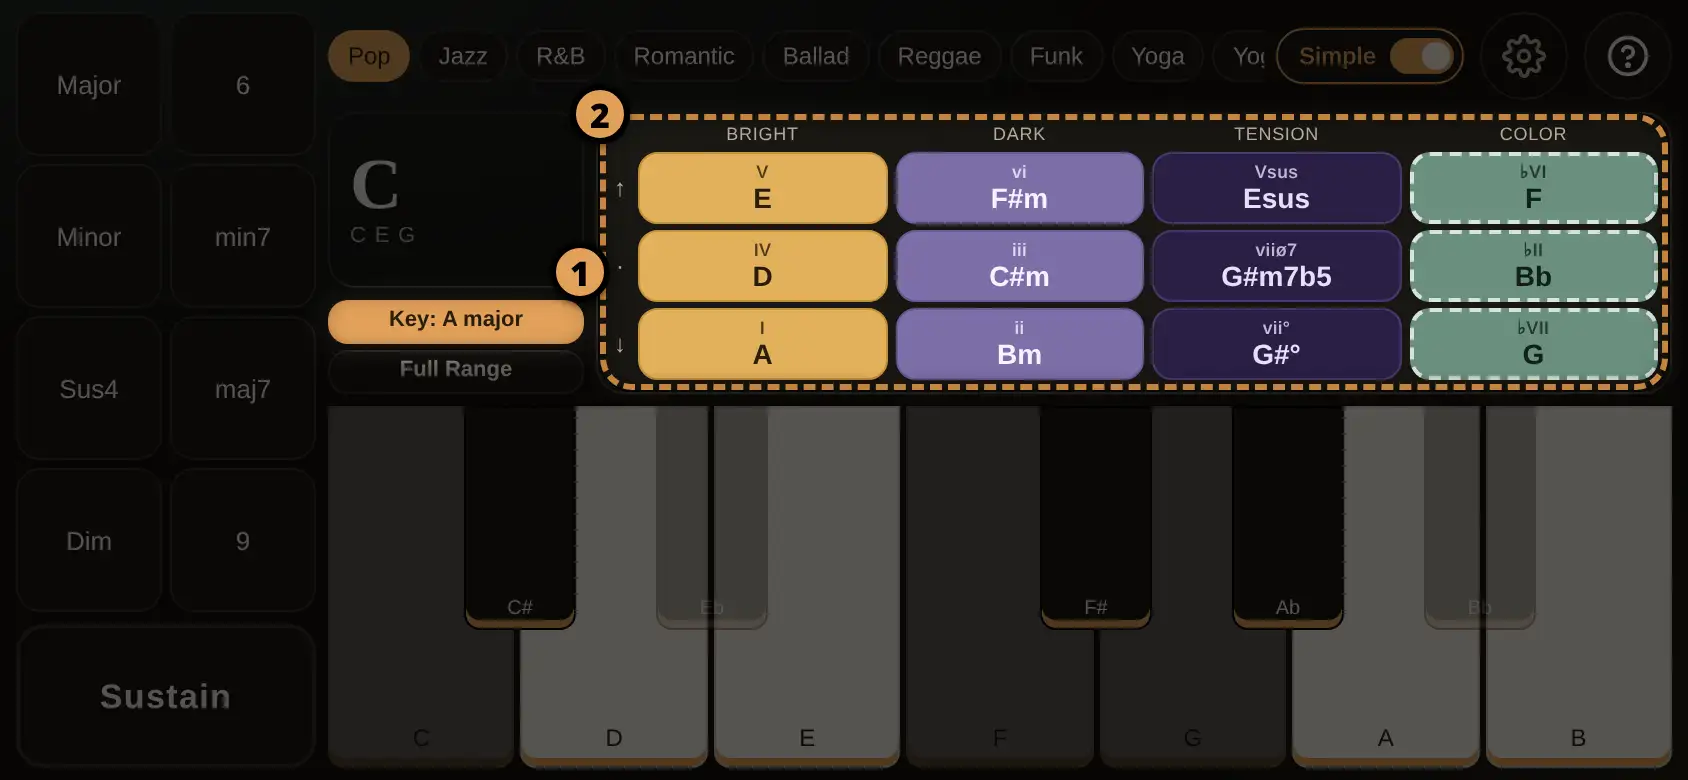
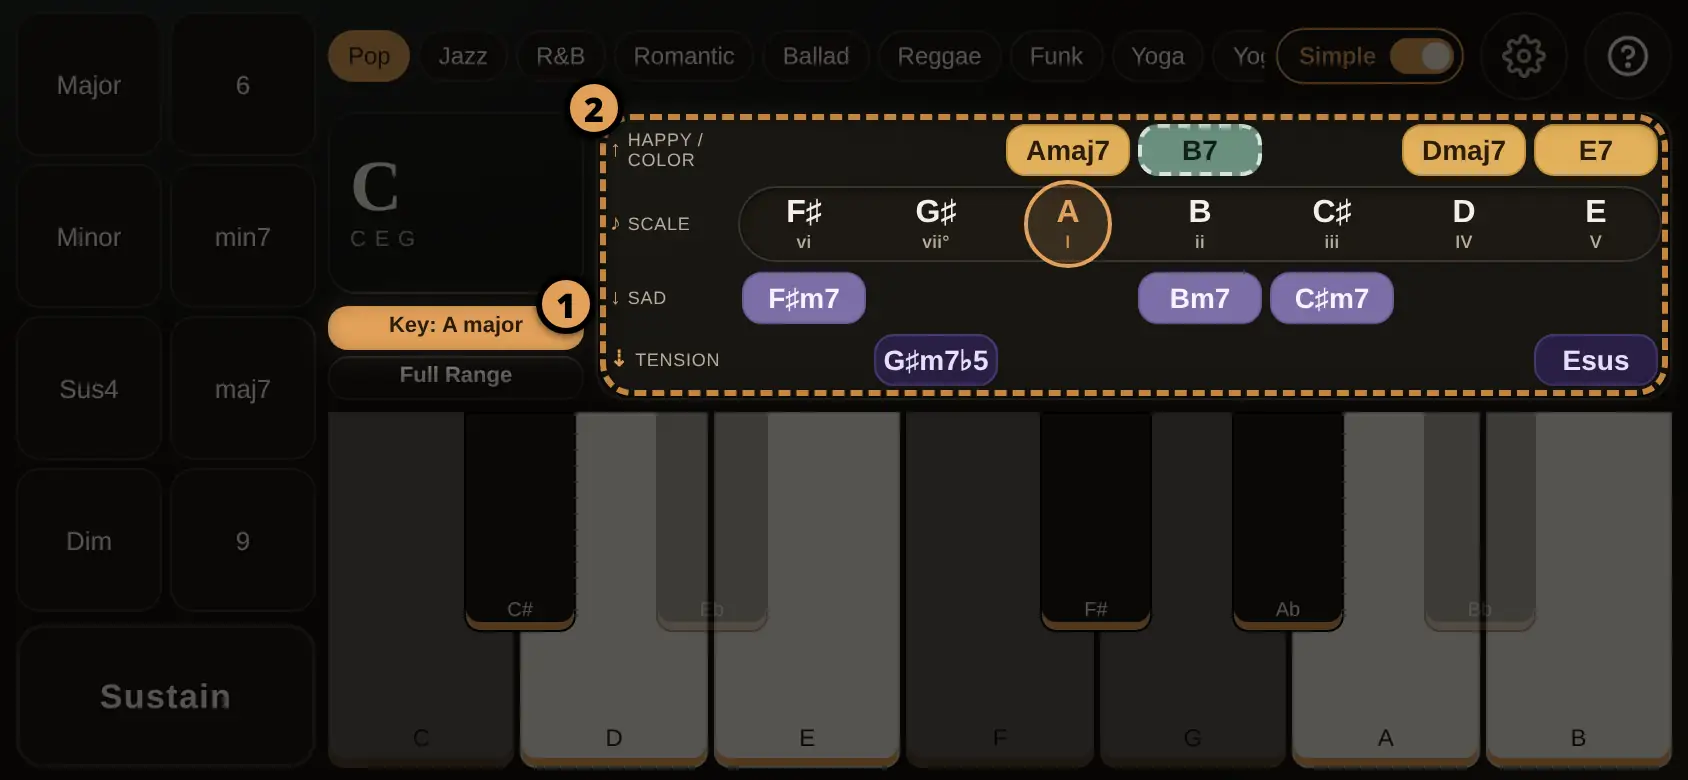
v49: How to step 2 image + 'Tap a chord (2)', step 4 caption; Now 7-chord row fits (stacked root/quality when narrow); ♭/♯ display everywhere; iPad-portrait key bar fit; APP_VERSION 49

diff --git a/index.html b/index.html
@@ -1081,6 +1081,9 @@ html.lay-phone-land .key-row { display: none; }
 .key-bar .allkeys { background: var(--bg-2); color: var(--ink); border: 1px solid var(--line); }
 .key-bar .allkeys.on { background: var(--copper); color: var(--copper-ink); border-color: transparent; }
 html.lay-pad-port .key-bar button, html.lay-pad-land .key-bar button { height: 44px; min-height: 44px; font-size: 16px; padding: 0 10px; }
+/* v49: narrow iPad-portrait Now column: keep "Full Range" and long key names unclipped. */
+html.lay-pad-port .key-bar button { font-size: 14px; padding: 0 6px; }
+html.lay-pad-port .key-bar .allkeys { flex: 0 0 auto; }
 html.lay-phone-port .key-bar { flex-direction: column; gap: 4px; }
 html.lay-phone-port .key-bar button { height: 28px; min-height: 28px; font-size: 12px; }
 html.lay-phone-land .key-bar button { height: 26px; min-height: 26px; font-size: 11px; }
@@ -1088,6 +1091,13 @@ html.lay-phone-land .key-bar button { height: 26px; min-height: 26px; font-size:
 .key-row span { flex: 1 1 0; min-width: 0; text-align: center; overflow: hidden; text-overflow: clip; white-space: nowrap; }
 html.lay-phone-port .key-row span, html.lay-phone-land .key-row span { font-size: 9px; padding: 1px 1px; }
 .key-row span b { display: none; }
+.key-row > span i { font-style: normal; }
+/* Stacked (narrow Now card): root over quality, border drawn inside so it takes no width. */
+#keyRow.stack { gap: 1px; }
+#keyRow.stack > span { display: flex; flex-direction: column; align-items: center; justify-content: center; line-height: 1.05; padding: 2px 0; border-color: transparent; box-shadow: inset 0 0 0 1px var(--line); }
+#keyRow.stack > span.on { box-shadow: none; }
+#keyRow.stack > span .acc { font-size: .8em; }
+#keyRow.stack > span .q { font-size: .85em; min-height: 1em; }
 html.lay-phone-land .key-bar { flex-direction: column; gap: 3px; }
 html.lay-phone-land .key-bar button { height: 22px; min-height: 22px; }
 /* v28: Full Range toggle (was All keys) */
@@ -1125,24 +1135,24 @@ html.lay-pad-port .allkeys, html.lay-pad-land .allkeys { font-size: 14px; paddin
     <div class="ht-box">
       <div class="ht-bar"><button type="button" class="ht-x" aria-label="Close">&#10005;</button></div>
       <section><h3>About Touch Chord</h3>
-      <img src="images/howto-why.webp?v=48" alt="Touch Chord on a phone: chord buttons, keys, Now and suggestions" width="1200" height="555" loading="lazy" decoding="async">
+      <img src="images/howto-why.webp?v=49" alt="Touch Chord on a phone: chord buttons, keys, Now and suggestions" width="1200" height="555" loading="lazy" decoding="async">
       <p class="ht-why">Touch Chord turns one finger into a full chord.<br>It's for anyone who wants to play chords without reading music.<br>A chord is 3 or more notes played at once. Chords that sound good together make up a key.</p>
       <ul><li><b>Learn chords:</b> try a random chord and see its name and notes.</li><li><b>Sing along:</b> play chords under your voice.</li><li><b>Beginner to making music:</b> start with one chord, then follow the suggestions into a song.</li></ul></section>
       <h2 class="ht-howto">How-to</h2>
       <section><h3>1. Make a chord</h3>
-      <img src="images/howto-make-chord.webp?v=48" alt="Hold maj7, tap A, Now reads Amaj7" width="1200" height="555" loading="lazy" decoding="async">
+      <img src="images/howto-make-chord.webp?v=49" alt="Hold maj7, tap A, Now reads Amaj7" width="1200" height="555" loading="lazy" decoding="async">
       <p class="cap">Hold <b>maj7</b> (1), tap <b>A</b> (2) = <b>Amaj7</b>.</p></section>
       <section><h3>2. Chord Suggestion</h3>
-      <img src="images/howto-suggest-b.webp?v=48" alt="Tap a suggestion tile to hear the next chord" width="1200" height="555" loading="lazy" decoding="async">
-      <p class="cap">Tap <b>Key</b> (1), pick A, close. Then tap a tile (2) to hear the next chord.</p></section>
+      <img src="images/howto-suggest-b.webp?v=49" alt="Tap a suggestion tile to hear the next chord" width="1200" height="555" loading="lazy" decoding="async">
+      <p class="cap">Tap a chord (2)</p></section>
       <section><h3>3. Sustain</h3>
-      <img src="images/howto-sustain.webp?v=48" alt="Sustain lit while the chord rings" width="1200" height="555" loading="lazy" decoding="async">
+      <img src="images/howto-sustain.webp?v=49" alt="Sustain lit while the chord rings" width="1200" height="555" loading="lazy" decoding="async">
       <p class="cap">Play (1), hold <b>Sustain</b> (2): notes ring and fade. Let go to stop.</p></section>
       <section><h3>4. Style</h3>
-      <img src="images/howto-style.webp?v=48" alt="Style picker" width="1200" height="555" loading="lazy" decoding="async">
-      <p class="cap">Tap a style (1). It changes the sound and suggestions.</p></section>
+      <img src="images/howto-style.webp?v=49" alt="Style picker" width="1200" height="555" loading="lazy" decoding="async">
+      <p class="cap">Tap a style (1). It changes the sound, not the chords.</p></section>
       <section><h3>5. Full Range</h3>
-      <img src="images/howto-fullrange.webp?v=48" alt="Before: gray keys. After Full Range: all keys on" width="1200" height="300" loading="lazy" decoding="async">
+      <img src="images/howto-fullrange.webp?v=49" alt="Before: gray keys. After Full Range: all keys on" width="1200" height="300" loading="lazy" decoding="async">
       <p class="cap">Gray keys are outside your key. Tap <b>Full Range</b> (1) to play them all.</p></section>
       <p class="ht-end">Sound and FX live in the gear's <b>Advanced</b> settings.</p>
       <dl class="ht-legend"><dt>Simple</dt><dd>Simple on/off</dd><dt>&#9881;</dt><dd>Settings (Advanced: sound, FX)</dd><dt>?</dt><dd>This guide</dd></dl>
@@ -1288,11 +1298,20 @@ html.lay-pad-port .allkeys, html.lay-pad-land .allkeys { font-size: 14px; paddin
 <script>
 "use strict";
 // Bump every build. Shown in Config so a cached copy reports its real version.
-var APP_VERSION = 48;
+var APP_VERSION = 49;
 document.addEventListener("DOMContentLoaded", function () {
   var v = document.getElementById("appVersion");
   if (v) v.textContent = "Version " + APP_VERSION;
 });
+
+// v49: display-only accidentals. "Bb" -> "B♭", "F#" -> "F♯", "m7b5" -> "m7♭5".
+// Internal names stay ASCII; call this only where text is shown.
+function accSym(s) {
+  return String(s == null ? "" : s)
+    .replace(/([A-G])(bb|##|b|#)/g, function (m, l, a) { return l + a.replace(/b/g, "\u266d").replace(/#/g, "\u266f"); })
+    .replace(/(\d|\()b(\d)/g, "$1\u266d$2")
+    .replace(/(\d|\()#(\d)/g, "$1\u266f$2");
+}
 
 
 (function () {
@@ -2706,7 +2725,7 @@ document.addEventListener("DOMContentLoaded", function () {
     b.dataset.midi = String(midi);
     if (state.keyMode && !deg) {
       b.className = "pad out";
-      b.innerHTML = "<span class=\"nm\">" + name + "</span>";
+      b.innerHTML = "<span class=\"nm\">" + accSym(name) + "</span>";
       return b;
     }
     if (state.keyMode) {
@@ -2715,7 +2734,7 @@ document.addEventListener("DOMContentLoaded", function () {
     } else {
       b.className = "pad " + state.type;
     }
-    b.innerHTML = "<span class=\"nm\">" + name + "</span>";
+    b.innerHTML = "<span class=\"nm\">" + accSym(name) + "</span>";
     bindPad(b);
     return b;
   }
@@ -3647,9 +3666,7 @@ document.addEventListener("DOMContentLoaded", function () {
     [6, "m7", "sad", "minor"], [2, "m7", "sad", "minor"], [3, "m7", "sad", "minor"],
     [7, "m7b5", "tension", "tension"], [5, "sus4", "tension", "tension"]
   ];
-  function prettyAcc(name) {
-    return name.charAt(0) + name.slice(1).replace(/b/g, "\u266d").replace(/#/g, "\u266f");
-  }
+  function prettyAcc(name) { return accSym(name); }
   function stripLabel(item) {
     var q = item.qualityLabel || "";
     if (q === "m7b5") q = "m7\u266d5";
@@ -3803,6 +3820,7 @@ document.addEventListener("DOMContentLoaded", function () {
   // Shrink the Now symbol only when a long name (e.g. F#6sus4(add9)) would
   // overflow its card; short ones like Cmaj7 keep the full display size.
   function fitNowSymbol() {
+    fitKeyRow();
     var sym = document.getElementById("symbol");
     var card = sym && sym.parentNode;
     if (!card) return;
@@ -3818,7 +3836,7 @@ document.addEventListener("DOMContentLoaded", function () {
   window.addEventListener("resize", function () { fitNowSymbol(); });
 
   function keyLabel(k) {
-    return Theory.noteName(Theory.spellRoot(k.pc)) + (k.mode === "minor" ? " minor" : " major");
+    return accSym(Theory.noteName(Theory.spellRoot(k.pc))) + (k.mode === "minor" ? " minor" : " major");
   }
   function paintKeyChip(spec) {
     var chip = document.getElementById("keyChip");
@@ -3880,11 +3898,38 @@ document.addEventListener("DOMContentLoaded", function () {
       var b = document.createElement("b");
       b.textContent = d.roman + (d.type === "dim" ? "\u00b0" : "");
       s.appendChild(b);
-      s.appendChild(document.createTextNode(d.name + (d.type === "minor" ? "m" : d.type === "dim" ? "\u00b0" : "")));
+      var r = document.createElement("i"); r.className = "r";
+      var nm = accSym(d.name);
+      r.textContent = nm.charAt(0);
+      if (nm.length > 1) { var ac = document.createElement("i"); ac.className = "acc"; ac.textContent = nm.slice(1); r.appendChild(ac); }
+      var q = document.createElement("i"); q.className = "q"; q.textContent = d.type === "minor" ? "m" : d.type === "dim" ? "\u00b0" : "";
+      s.appendChild(r); s.appendChild(q);
       if (spec && d.pc === spec.rootPc && (d.type === spec.type || (spec.type === "sus4"))) s.className = "on";
       row.appendChild(s);
     });
+    fitKeyRow();
   }
+  // v49: 7-chord row: one line when it fits, else root stacked over quality.
+  function fitKeyRow() {
+    var row = document.getElementById("keyRow");
+    if (!row || !row.firstChild) return;
+    row.classList.remove("stack");
+    var spans = row.children;
+    function over() {
+      for (var i = 0; i < spans.length; i++) if (spans[i].scrollWidth > spans[i].clientWidth + 0.5) return true;
+      return false;
+    }
+    var i;
+    for (i = 0; i < spans.length; i++) spans[i].style.fontSize = "";
+    if (!over()) return;
+    row.classList.add("stack");
+    var fs = parseFloat(getComputedStyle(spans[0]).fontSize) || 9;
+    while (fs > 7 && over()) {
+      fs -= 0.5;
+      for (i = 0; i < spans.length; i++) spans[i].style.fontSize = fs + "px";
+    }
+  }
+  window.addEventListener("resize", function () { fitKeyRow(); });
   function setLockKey(k) {
     lockKey = k;
     suggestSig = "";
@@ -3935,8 +3980,8 @@ document.addEventListener("DOMContentLoaded", function () {
 
   function updateSymbol() {
     var spec = computeSpec();
-    document.getElementById("symbol").textContent = spec.symbol;
-    document.getElementById("tones").textContent = spec.names.join(" ");
+    document.getElementById("symbol").textContent = accSym(spec.symbol);
+    document.getElementById("tones").textContent = spec.names.map(accSym).join(" ");
     fitNowSymbol();
     document.getElementById("vname").textContent = state.voicing;
     var slider = document.getElementById("voicing");
@@ -3982,7 +4027,7 @@ document.addEventListener("DOMContentLoaded", function () {
     document.getElementById("keyMajor").classList.toggle("on", state.keyScale === "major");
     document.getElementById("keyMinor").classList.toggle("on", state.keyScale === "minor");
     document.getElementById("keyReadout").textContent = state.keyMode
-      ? "Key of " + Theory.NOTE_NAMES[state.keyRoot] + (state.keyScale === "minor" ? " minor" : " major")
+      ? "Key of " + accSym(Theory.NOTE_NAMES[state.keyRoot]) + (state.keyScale === "minor" ? " minor" : " major")
       : "Chromatic";
     paintKeyChip(spec);
     paintSuggestions(spec);
@@ -4099,7 +4144,7 @@ document.addEventListener("DOMContentLoaded", function () {
     Theory.NOTE_NAMES.forEach(function (name, i) {
       var opt = document.createElement("option");
       opt.value = String(i);
-      opt.textContent = name;
+      opt.textContent = accSym(name);
       keySel.appendChild(opt);
     });
 
